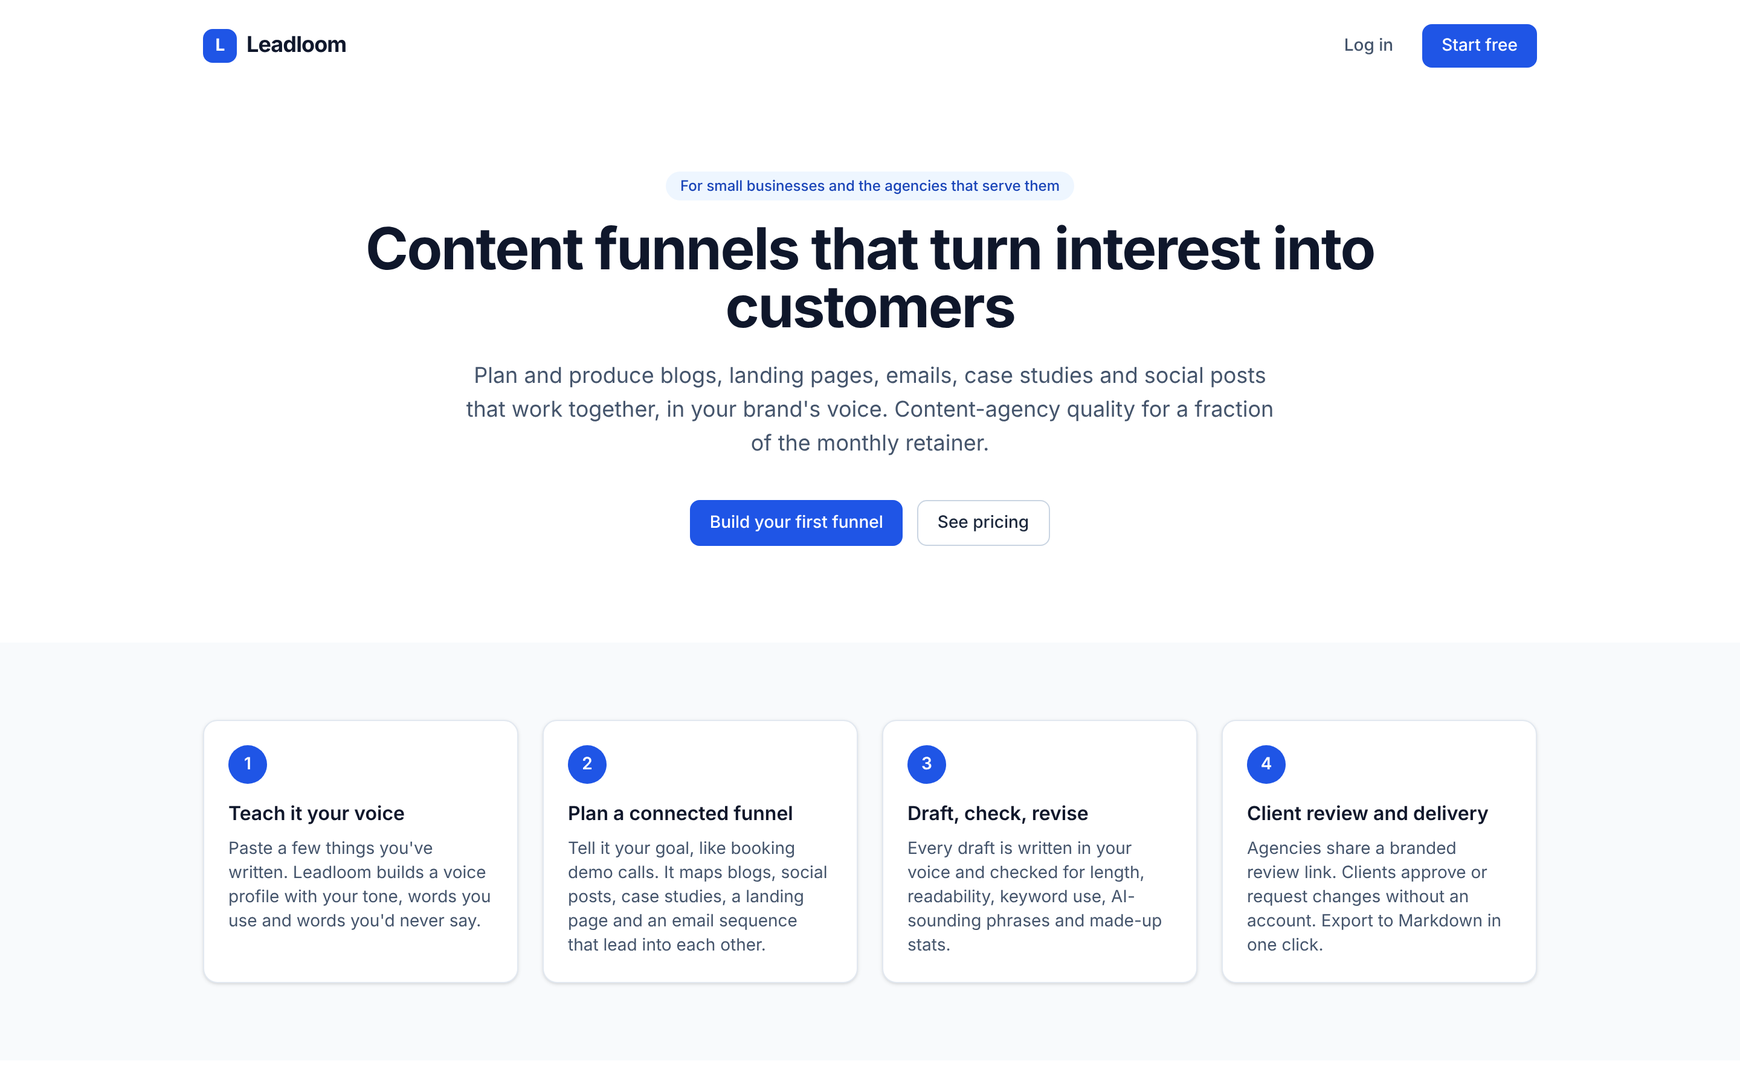
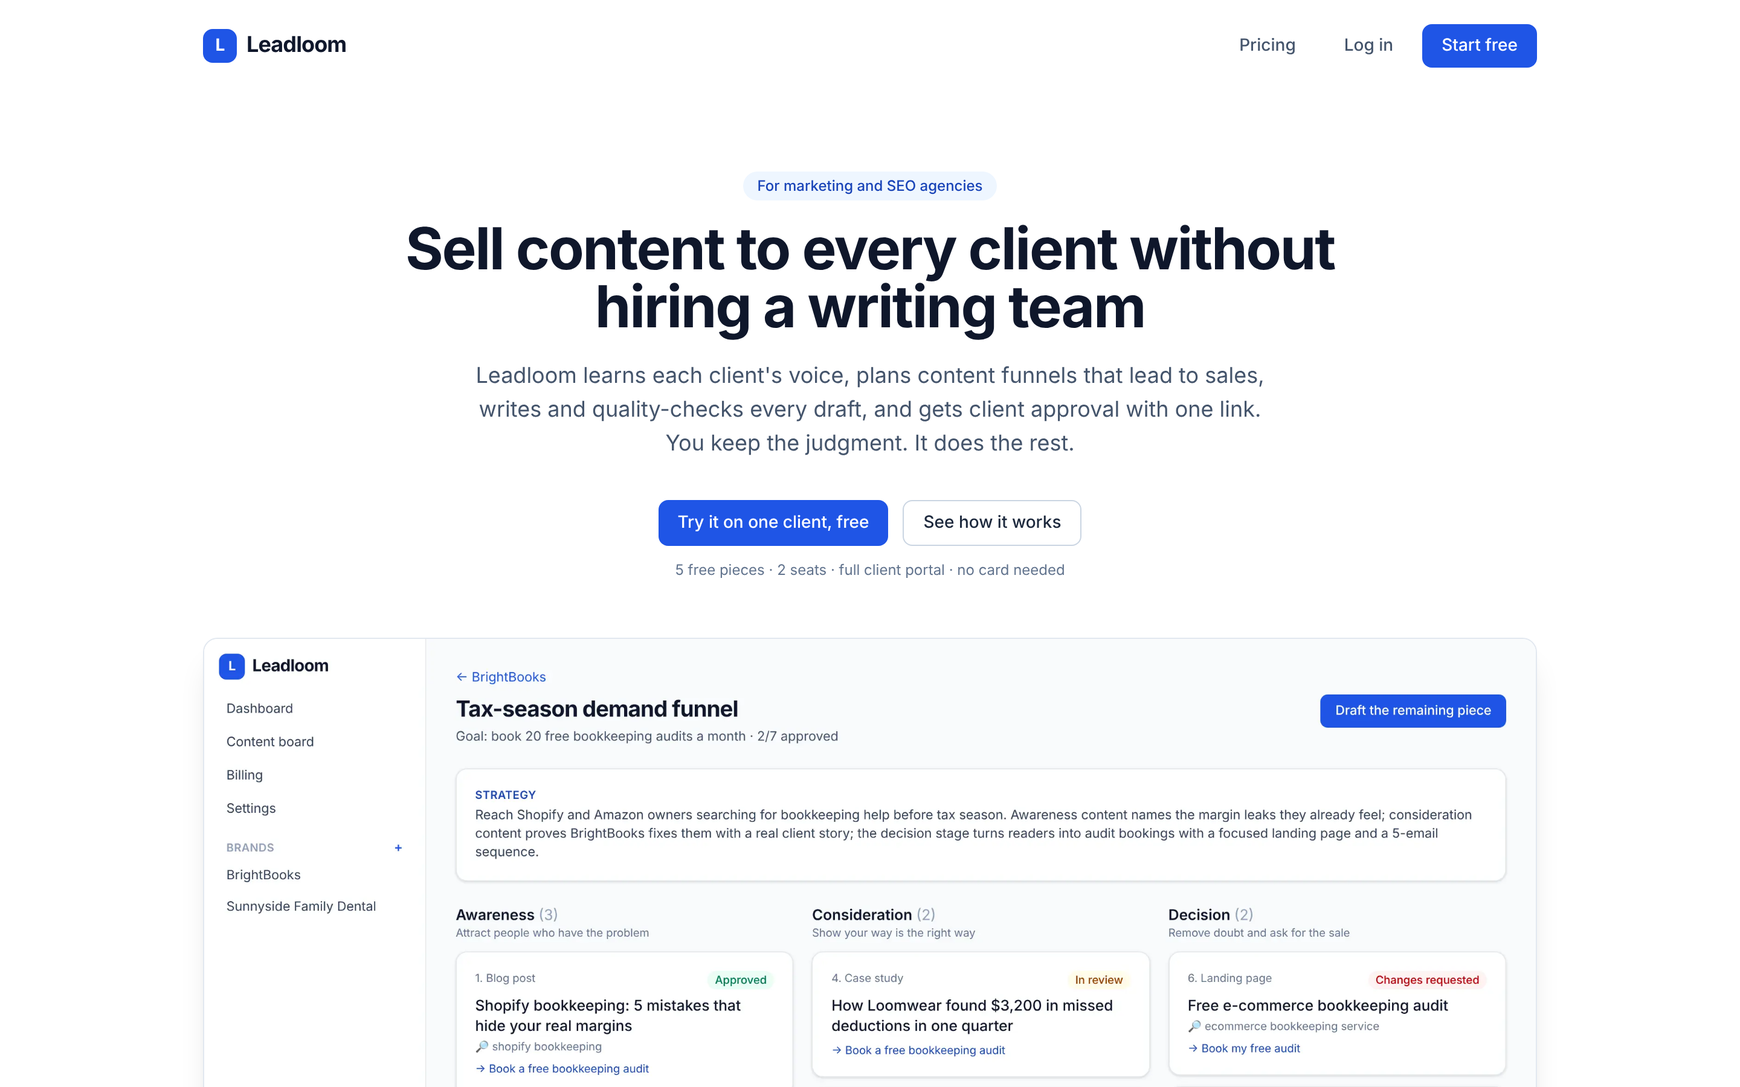
Agency-focused landing page and sales kit
- Landing page rewritten for marketing/SEO agencies: problem, five
  features, product screenshots, retainer math, FAQ, final CTA
- docs/SALES-KIT.md: targeting, LinkedIn and cold-email sequences,
  15-minute demo script, objection handling, metrics to track

Claude-Session: https://claude.ai/code/session_01QX2x9t69M4JbVXPCFKNxjs

diff --git a/app/page.tsx b/app/page.tsx
@@ -1,73 +1,167 @@
 import Link from "next/link";
+import Image from "next/image";
 import { Logo } from "@/components/logo";
 import { LinkButton, Card } from "@/components/ui";
 import { PLANS, type PlanId } from "@/lib/plans";
 
-const steps = [
-  { t: "Teach it your voice", d: "Paste a few things you've written. Leadloom builds a voice profile with your tone, words you use and words you'd never say." },
-  { t: "Plan a connected funnel", d: "Tell it your goal, like booking demo calls. It maps blogs, social posts, case studies, a landing page and an email sequence that lead into each other." },
-  { t: "Draft, check, revise", d: "Every draft is written in your voice and checked for length, readability, keyword use, AI-sounding phrases and made-up stats." },
-  { t: "Client review and delivery", d: "Agencies share a branded review link. Clients approve or request changes without an account. Export to Markdown in one click." },
+const pains = [
+  { t: "Freelancers miss deadlines", d: "And you find out the day the client expects it." },
+  { t: "Drafts don't sound like the client", d: "So you rewrite them yourself at 11pm." },
+  { t: "Feedback lives everywhere", d: "Email, WhatsApp, Doc comments. Which version did they approve?" },
+  { t: "Content is your worst margin", d: "After writer costs and your time, there's little left." },
+];
+
+const features = [
+  { n: "1", t: "Learns each client's voice once", d: "Paste a few things they've written. Leadloom builds a voice profile: their tone, the words they use and the words they'd never say. Every draft is written to it." },
+  { n: "2", t: "Plans content that sells", d: "Give it the client's goal, like \"book 30 consultations this quarter\". It maps a connected funnel of blogs, case studies, a landing page and emails, each pointing to the next." },
+  { n: "3", t: "Checks every draft before you do", d: "A quality score on every piece. It flags AI-sounding phrases, banned words, unsourced statistics and missing calls to action. It never invents results: missing numbers become [ADD METRIC]." },
+  { n: "4", t: "Clients approve with one link", d: "No logins, no email threads. Clients read on their phone and tap Approve or Request changes. On the Agency plan, the page shows only your agency's name." },
+  { n: "5", t: "One board for every client", d: "Every piece for every client: drafting, with the client, needs changes, approved, delivered." },
+];
+
+const faqs = [
+  { q: "Is this just ChatGPT with a nicer screen?", a: "No. ChatGPT gives you one-off text. Leadloom keeps a voice profile and fact sheet per client, plans connected funnels, scores every draft, and handles client approval and delivery. It's the agency workflow, not a chat box." },
+  { q: "Will my clients know I use AI?", a: "Only if you tell them. On the Agency plan the review portal is white-label, and you approve every piece before it goes out." },
+  { q: "Does it make up facts?", a: "It is instructed to use only the proof points you give it for each client. Where a number would help but you haven't provided one, it writes a placeholder like [ADD METRIC] and the quality check flags it until it's filled in." },
+  { q: "Do I still need to edit?", a: "Yes, and that's the point. Leadloom does the research-and-first-draft work that eats your week. You keep the judgment your clients pay you for." },
+  { q: "What happens after the free trial?", a: "You keep everything you made. To create more, pick a plan. No contracts; cancel anytime from the Billing page." },
 ];
 
 export default function Home() {
   const plans = (["starter", "growth", "agency"] as PlanId[]).map((id) => ({ id, ...PLANS[id] }));
+  const agency = PLANS.agency;
+  const perPiece = (agency.price / agency.piecesPerMonth).toFixed(2);
   return (
     <div className="min-h-screen bg-white">
       <header className="mx-auto flex max-w-6xl items-center justify-between px-4 sm:px-6 py-5">
         <Logo />
-        <nav className="flex items-center gap-2">
+        <nav className="flex items-center gap-1 sm:gap-2">
+          <LinkButton href="#pricing" variant="ghost" className="hidden sm:inline-flex">Pricing</LinkButton>
           <LinkButton href="/login" variant="ghost">Log in</LinkButton>
           <LinkButton href="/signup">Start free</LinkButton>
         </nav>
       </header>
 
-      <section className="mx-auto max-w-4xl px-4 sm:px-6 pt-16 pb-20 text-center">
-        <p className="mb-4 inline-block rounded-full bg-brand-50 px-3 py-1 text-xs font-medium text-brand-700">For small businesses and the agencies that serve them</p>
-        <h1 className="text-4xl sm:text-5xl font-bold tracking-tight text-slate-900">Content funnels that turn interest into customers</h1>
+      {/* Hero */}
+      <section className="mx-auto max-w-4xl px-4 sm:px-6 pt-12 sm:pt-16 pb-12 text-center">
+        <p className="mb-4 inline-block rounded-full bg-brand-50 px-3 py-1 text-xs font-medium text-brand-700">For marketing and SEO agencies</p>
+        <h1 className="text-4xl sm:text-5xl font-bold tracking-tight text-slate-900">Sell content to every client without hiring a writing team</h1>
         <p className="mx-auto mt-5 max-w-2xl text-lg text-slate-600">
-          Plan and produce blogs, landing pages, emails, case studies and social posts that work together, in your brand&apos;s voice.
-          Content-agency quality for a fraction of the monthly retainer.
+          Leadloom learns each client&apos;s voice, plans content funnels that lead to sales, writes and quality-checks every draft,
+          and gets client approval with one link. You keep the judgment. It does the rest.
         </p>
-        <div className="mt-8 flex justify-center gap-3">
-          <LinkButton href="/signup">Build your first funnel</LinkButton>
-          <LinkButton href="#pricing" variant="secondary">See pricing</LinkButton>
+        <div className="mt-8 flex flex-col sm:flex-row justify-center gap-3">
+          <LinkButton href="/signup">Try it on one client, free</LinkButton>
+          <LinkButton href="#how" variant="secondary">See how it works</LinkButton>
+        </div>
+        <p className="mt-3 text-xs text-slate-500">5 free pieces · 2 seats · full client portal · no card needed</p>
+      </section>
+
+      <section className="mx-auto max-w-6xl px-4 sm:px-6 pb-16">
+        <div className="overflow-hidden rounded-xl border border-slate-200 shadow-xl">
+          <Image src="/product/funnel.png" alt="A client's content funnel in Leadloom, from awareness to decision" width={2880} height={1800} priority className="h-auto w-full" />
         </div>
       </section>
 
+      {/* Problem */}
       <section className="bg-slate-50 py-16">
-        <div className="mx-auto grid max-w-6xl gap-5 px-4 sm:px-6 sm:grid-cols-2 lg:grid-cols-4">
-          {steps.map((s, i) => (
-            <Card key={s.t}>
-              <div className="mb-3 grid h-8 w-8 place-items-center rounded-full bg-brand-600 text-sm font-semibold text-white">{i + 1}</div>
-              <h3 className="font-semibold">{s.t}</h3>
-              <p className="mt-2 text-sm text-slate-600">{s.d}</p>
-            </Card>
-          ))}
+        <div className="mx-auto max-w-6xl px-4 sm:px-6">
+          <h2 className="text-center text-2xl sm:text-3xl font-bold">Clients keep asking for content. You keep saying yes.</h2>
+          <p className="mx-auto mt-3 max-w-2xl text-center text-slate-600">And every month it&apos;s the same problems.</p>
+          <div className="mt-10 grid gap-4 sm:grid-cols-2 lg:grid-cols-4">
+            {pains.map((p) => (
+              <Card key={p.t}><h3 className="font-semibold">{p.t}</h3><p className="mt-2 text-sm text-slate-600">{p.d}</p></Card>
+            ))}
+          </div>
         </div>
       </section>
 
+      {/* How it works */}
+      <section id="how" className="mx-auto max-w-6xl px-4 sm:px-6 py-20">
+        <h2 className="text-center text-2xl sm:text-3xl font-bold">Your whole content workflow, in one place</h2>
+        <div className="mt-12 grid items-center gap-10 lg:grid-cols-2">
+          <div className="space-y-6">
+            {features.map((f) => (
+              <div key={f.n} className="flex gap-4">
+                <div className="grid h-8 w-8 shrink-0 place-items-center rounded-full bg-brand-600 text-sm font-semibold text-white">{f.n}</div>
+                <div><h3 className="font-semibold">{f.t}</h3><p className="mt-1 text-sm text-slate-600">{f.d}</p></div>
+              </div>
+            ))}
+          </div>
+          <div className="space-y-4">
+            <div className="overflow-hidden rounded-xl border border-slate-200 shadow-lg">
+              <Image src="/product/content-editor.png" alt="Draft with a quality score of 90 and ten checks" width={2880} height={1800} className="h-auto w-full" />
+            </div>
+            <div className="flex items-start gap-4">
+              <div className="w-1/3 overflow-hidden rounded-xl border border-slate-200 shadow-lg">
+                <Image src="/product/client-portal-mobile.png" alt="Client reviewing content on a phone" width={1170} height={2532} className="h-auto w-full" />
+              </div>
+              <p className="w-2/3 pt-4 text-sm text-slate-600"><strong className="text-slate-900">Your client&apos;s view.</strong> A private link, no account. They read it on their phone, then approve or ask for changes. Their feedback lands on your board.</p>
+            </div>
+          </div>
+        </div>
+      </section>
+
+      {/* Math */}
+      <section className="bg-brand-600 py-16 text-white">
+        <div className="mx-auto max-w-4xl px-4 sm:px-6 text-center">
+          <h2 className="text-2xl sm:text-3xl font-bold">Two client retainers pay for it</h2>
+          <div className="mt-10 grid gap-6 sm:grid-cols-3">
+            <div><div className="text-4xl font-bold">${agency.price}</div><div className="mt-1 text-sm text-brand-100">a month on the Agency plan</div></div>
+            <div><div className="text-4xl font-bold">${perPiece}</div><div className="mt-1 text-sm text-brand-100">per piece across {agency.piecesPerMonth} pieces</div></div>
+            <div><div className="text-4xl font-bold">2 × $500</div><div className="mt-1 text-sm text-brand-100">client content retainers cover it, with profit left</div></div>
+          </div>
+          <p className="mx-auto mt-8 max-w-2xl text-sm text-brand-100">A content agency charges around $1,000 a month per client. Freelancers cost $100–300 per blog post plus your editing time. Add a third client and content becomes your best-margin service.</p>
+        </div>
+      </section>
+
+      {/* Pricing */}
       <section id="pricing" className="mx-auto max-w-5xl px-4 sm:px-6 py-20">
         <h2 className="text-center text-3xl font-bold">Simple monthly plans</h2>
         <p className="text-center text-slate-600 mt-2">Start with 5 free pieces, no card needed. No contracts, cancel anytime.</p>
         <div className="mt-10 grid gap-5 md:grid-cols-3">
           {plans.map((p) => (
-            <Card key={p.id} className={p.id === "growth" ? "ring-2 ring-brand-500" : ""}>
-              <h3 className="font-semibold">{p.name}</h3>
+            <Card key={p.id} className={p.id === "agency" ? "ring-2 ring-brand-500" : ""}>
+              <div className="flex items-center justify-between">
+                <h3 className="font-semibold">{p.name}</h3>
+                {p.id === "agency" && <span className="rounded-full bg-brand-50 px-2 py-0.5 text-xs font-medium text-brand-700">For agencies</span>}
+              </div>
               <p className="text-sm text-slate-500">{p.blurb}</p>
               <p className="mt-4 text-3xl font-bold">${p.price}<span className="text-base font-normal text-slate-500">/mo</span></p>
               <ul className="mt-4 space-y-1.5 text-sm text-slate-700">
                 <li>✓ {p.piecesPerMonth} pieces per month</li>
-                <li>✓ {p.brands} brand{p.brands > 1 ? "s" : ""}</li>
+                <li>✓ {p.brands} client brand{p.brands > 1 ? "s" : ""}</li>
                 <li>✓ {p.seats} team seat{p.seats > 1 ? "s" : ""}</li>
                 <li>✓ Voice profiles and funnel planner</li>
                 <li>✓ Quality checks on every draft</li>
                 <li>{p.whiteLabel ? "✓ White-label client review portal" : "✓ Client review links"}</li>
               </ul>
-              <LinkButton href="/signup" className="mt-6 w-full" variant={p.id === "growth" ? "primary" : "secondary"}>Start free</LinkButton>
+              <LinkButton href="/signup" className="mt-6 w-full" variant={p.id === "agency" ? "primary" : "secondary"}>Start free</LinkButton>
             </Card>
           ))}
         </div>
+      </section>
+
+      {/* FAQ */}
+      <section className="bg-slate-50 py-16">
+        <div className="mx-auto max-w-3xl px-4 sm:px-6">
+          <h2 className="text-center text-2xl sm:text-3xl font-bold">Questions agencies ask</h2>
+          <div className="mt-8 space-y-3">
+            {faqs.map((f) => (
+              <details key={f.q} className="group rounded-xl border border-slate-200 bg-white p-4">
+                <summary className="cursor-pointer list-none font-medium flex items-center justify-between gap-4">{f.q}<span className="text-slate-400 group-open:rotate-45 transition">+</span></summary>
+                <p className="mt-3 text-sm text-slate-600">{f.a}</p>
+              </details>
+            ))}
+          </div>
+        </div>
+      </section>
+
+      {/* Final CTA */}
+      <section className="mx-auto max-w-3xl px-4 sm:px-6 py-20 text-center">
+        <h2 className="text-2xl sm:text-3xl font-bold">Try it on your most demanding client this week</h2>
+        <p className="mt-3 text-slate-600">Build their funnel, send them the review link. If they approve faster than they do now, you&apos;ll know.</p>
+        <LinkButton href="/signup" className="mt-6">Start free: 5 pieces, no card</LinkButton>
       </section>
 
       <footer className="border-t border-slate-200 py-8 text-center text-sm text-slate-500">

diff --git a/docs/SALES-KIT.md b/docs/SALES-KIT.md
@@ -1,0 +1,151 @@
+# Leadloom sales kit: finding the first 10 paying agencies
+
+Everything here is copy you can paste. Replace anything in `{curly braces}`. Never add numbers or testimonials you don't have; add real ones as soon as customers give them to you.
+
+## 1. Who to contact
+
+**Ideal customer:** the owner or founder of a marketing, SEO, web design or branding agency with **2–20 people** that has **retainer clients** and either already sells content or gets asked for it.
+
+**Where to find them**
+- LinkedIn search: `founder OR owner` + `marketing agency` / `SEO agency` / `web design agency`, 2–50 employees. Prefer people who posted in the last 30 days.
+- Clutch.co and Agency Vista listings for small agencies in your target country.
+- Facebook/LinkedIn groups for agency owners, and the r/agency and r/SEO communities (give value first; don't spam).
+- Penmo-style content services: agencies that resell content often mention "white-label content" on their site.
+
+**Signals they're a good fit**
+- Their site offers "content marketing", "blogging" or "SEO content".
+- They post about freelancer problems, hiring writers or scaling delivery.
+- They have case studies for 5+ clients (they have retainers).
+
+**Goal for week one:** 50 personalised messages → 10 replies → 5 demos → 2 trials on real clients.
+
+---
+
+## 2. LinkedIn
+
+### Connection note (under 300 characters)
+```
+Hi {first_name}, I saw {agency} does content for {type of clients}. I've built a tool for agencies that writes and quality-checks client content in each client's voice, with one-link client approval. Would love to connect.
+```
+
+### Message 1: after they accept
+```
+Thanks for connecting, {first_name}.
+
+Quick question: when a client asks {agency} for blogs or a landing page, who writes it today: freelancers, your team, or do you pass on it?
+
+I ask because I built Leadloom for exactly that. It learns each client's voice from a few samples, plans a content funnel toward their goal, writes and scores every draft (it flags AI-sounding phrases and any stat without a source), and the client approves with one link from their phone. White-label on the agency plan.
+
+Not trying to sell you anything in this message. If content is a headache for you, I'd love 15 minutes to hear how you handle it today.
+```
+
+### Follow-up 1: 3 days later, no reply
+```
+Hi {first_name}, one more thought: the math most agencies like is that two $500/month client content retainers cover the agency plan, and everything after that is margin.
+
+Happy to set up one of your real clients in it so you can see a draft in their voice. Worth a look?
+```
+
+### Follow-up 2: 7 days later, no reply
+```
+Last note from me, {first_name}. If now's not the time, no problem at all. Here's the link if you ever want to try it on one client (5 free pieces, no card): https://leadloom-theta.vercel.app
+
+If you'd rather I stop messaging, just say so.
+```
+
+---
+
+## 3. Cold email sequence
+
+Send from a separate domain (e.g. `getleadloom.com`), plain text, no images, under 120 words each. Max ~30 new contacts a day per inbox.
+
+### Email 1: day 0
+**Subject:** content for {agency}'s clients
+
+```
+Hi {first_name},
+
+Saw that {agency} offers {content / SEO} for {type of clients}.
+
+Most agency owners I talk to say content is the service with the worst margin: freelancers miss deadlines, drafts don't sound like the client, and approvals get lost in email.
+
+I built Leadloom to fix that. It learns each client's voice, plans a funnel toward their goal, writes and quality-checks every draft, and clients approve with one link. White-label on the agency plan.
+
+Worth a 15-minute look?
+
+{your_name}
+```
+
+### Email 2: day 3
+**Subject:** re: content for {agency}'s clients
+
+```
+{first_name}, one detail people ask about: it never invents results for a client. If a draft needs a number you haven't given it, it writes [ADD METRIC] and the quality check flags it until someone fills it in.
+
+That's usually the difference between "AI content" and content you can put your agency's name on.
+
+Want me to set up one of your clients so you can judge a real draft?
+```
+
+### Email 3: day 7
+**Subject:** the math
+
+```
+Hi {first_name},
+
+The agency plan is $399/month for 150 pieces across up to 50 clients. Two clients on a $500/month content retainer cover it; every client after that is profit.
+
+Free trial is 5 pieces on one real client, no card: https://leadloom-theta.vercel.app
+
+{your_name}
+```
+
+### Email 4: day 14 (break-up)
+**Subject:** closing the loop
+
+```
+Hi {first_name}, I'll stop here. If content ever becomes a priority for {agency}, the trial link above still works, or just reply and I'll set it up with you.
+
+Thanks either way,
+{your_name}
+```
+
+---
+
+## 4. The 15-minute demo
+
+1. **Their problem (3 min).** "Walk me through what happens when a client asks for a blog post." Listen. Write down their words.
+2. **Their client, live (8 min).** Before the call, add one of *their* real clients as a brand using public info from the client's website (about page, a blog post or two as voice samples). On the call:
+   - show the voice profile ("does this sound like them?"),
+   - plan a funnel from the client's real goal,
+   - open a finished draft and the quality score,
+   - send the review link to *their* phone.
+3. **The math (2 min).** Ask what they charge clients for content today, and show what's left after the plan.
+4. **Next step (2 min).** "Want to run this on that client for real this week? The trial has 5 pieces. I'll check in Friday."
+
+**After the demo:** check in on day 3 and day 7. Ask: "Did the client approve anything? What did you have to change?" Their answers are your product roadmap.
+
+---
+
+## 5. Objections
+
+| They say | You say |
+|---|---|
+| "We just use ChatGPT." | "Most agencies do. ChatGPT doesn't remember 20 clients' voices, doesn't plan a funnel, doesn't flag invented stats, and your client can't approve in it. Try both on the same client and compare." |
+| "AI content is bad for SEO." | "Google's issue is unhelpful content, not AI. That's why Leadloom flags AI-sounding phrases and unsourced claims, and why you approve every piece. You stay the editor." |
+| "My clients won't want AI." | "They'll see a draft in their voice that you approved. On the agency plan your client portal shows only your name." |
+| "Too expensive." | "What does one blog post cost you from a freelancer today? The agency plan works out to under $3 a piece." |
+| "Not now." | "Totally fair. Can I check back in {month}? In the meantime the free trial doesn't expire." |
+
+---
+
+## 6. What to track
+
+A simple sheet with one row per agency: name, contact, source, date contacted, replied (Y/N), demo date, trial started, client used, first draft approved (Y/N), paid (plan), notes.
+
+The numbers that matter in month one:
+- **Reply rate** (target 15%+). If lower, change the first message.
+- **Trial → first approved draft** (target 50%+). If lower, the AI quality or onboarding needs work, not the pitch.
+- **Trial → paid** (target 20%+).
+
+When you get the first "this saved me time" from a real customer, ask permission to quote them, and add it to the landing page and every message above.

diff --git a/README.md b/README.md
@@ -8,7 +8,7 @@
 
 Plan and produce blogs, landing pages, email sequences, case studies and social posts that work together, written in each brand's own voice, quality-checked, reviewed by the client and delivered. All in one place.
 
-[Features](#-features) · [Test plan](docs/TEST-PLAN.md) · [How it works](#-how-it-works) · [Screenshots](#-screenshots) · [Pricing](#-pricing) · [Quick start](#-quick-start) · [Deploy](#-deploy-vercel--neon) · [Architecture](#-architecture)
+[Features](#-features) · [Test plan](docs/TEST-PLAN.md) · [Sales kit](docs/SALES-KIT.md) · [How it works](#-how-it-works) · [Screenshots](#-screenshots) · [Pricing](#-pricing) · [Quick start](#-quick-start) · [Deploy](#-deploy-vercel--neon) · [Architecture](#-architecture)
 
 ![Next.js](https://img.shields.io/badge/Next.js-15-000?logo=nextdotjs)
 ![TypeScript](https://img.shields.io/badge/TypeScript-5-3178C6?logo=typescript&logoColor=white)
